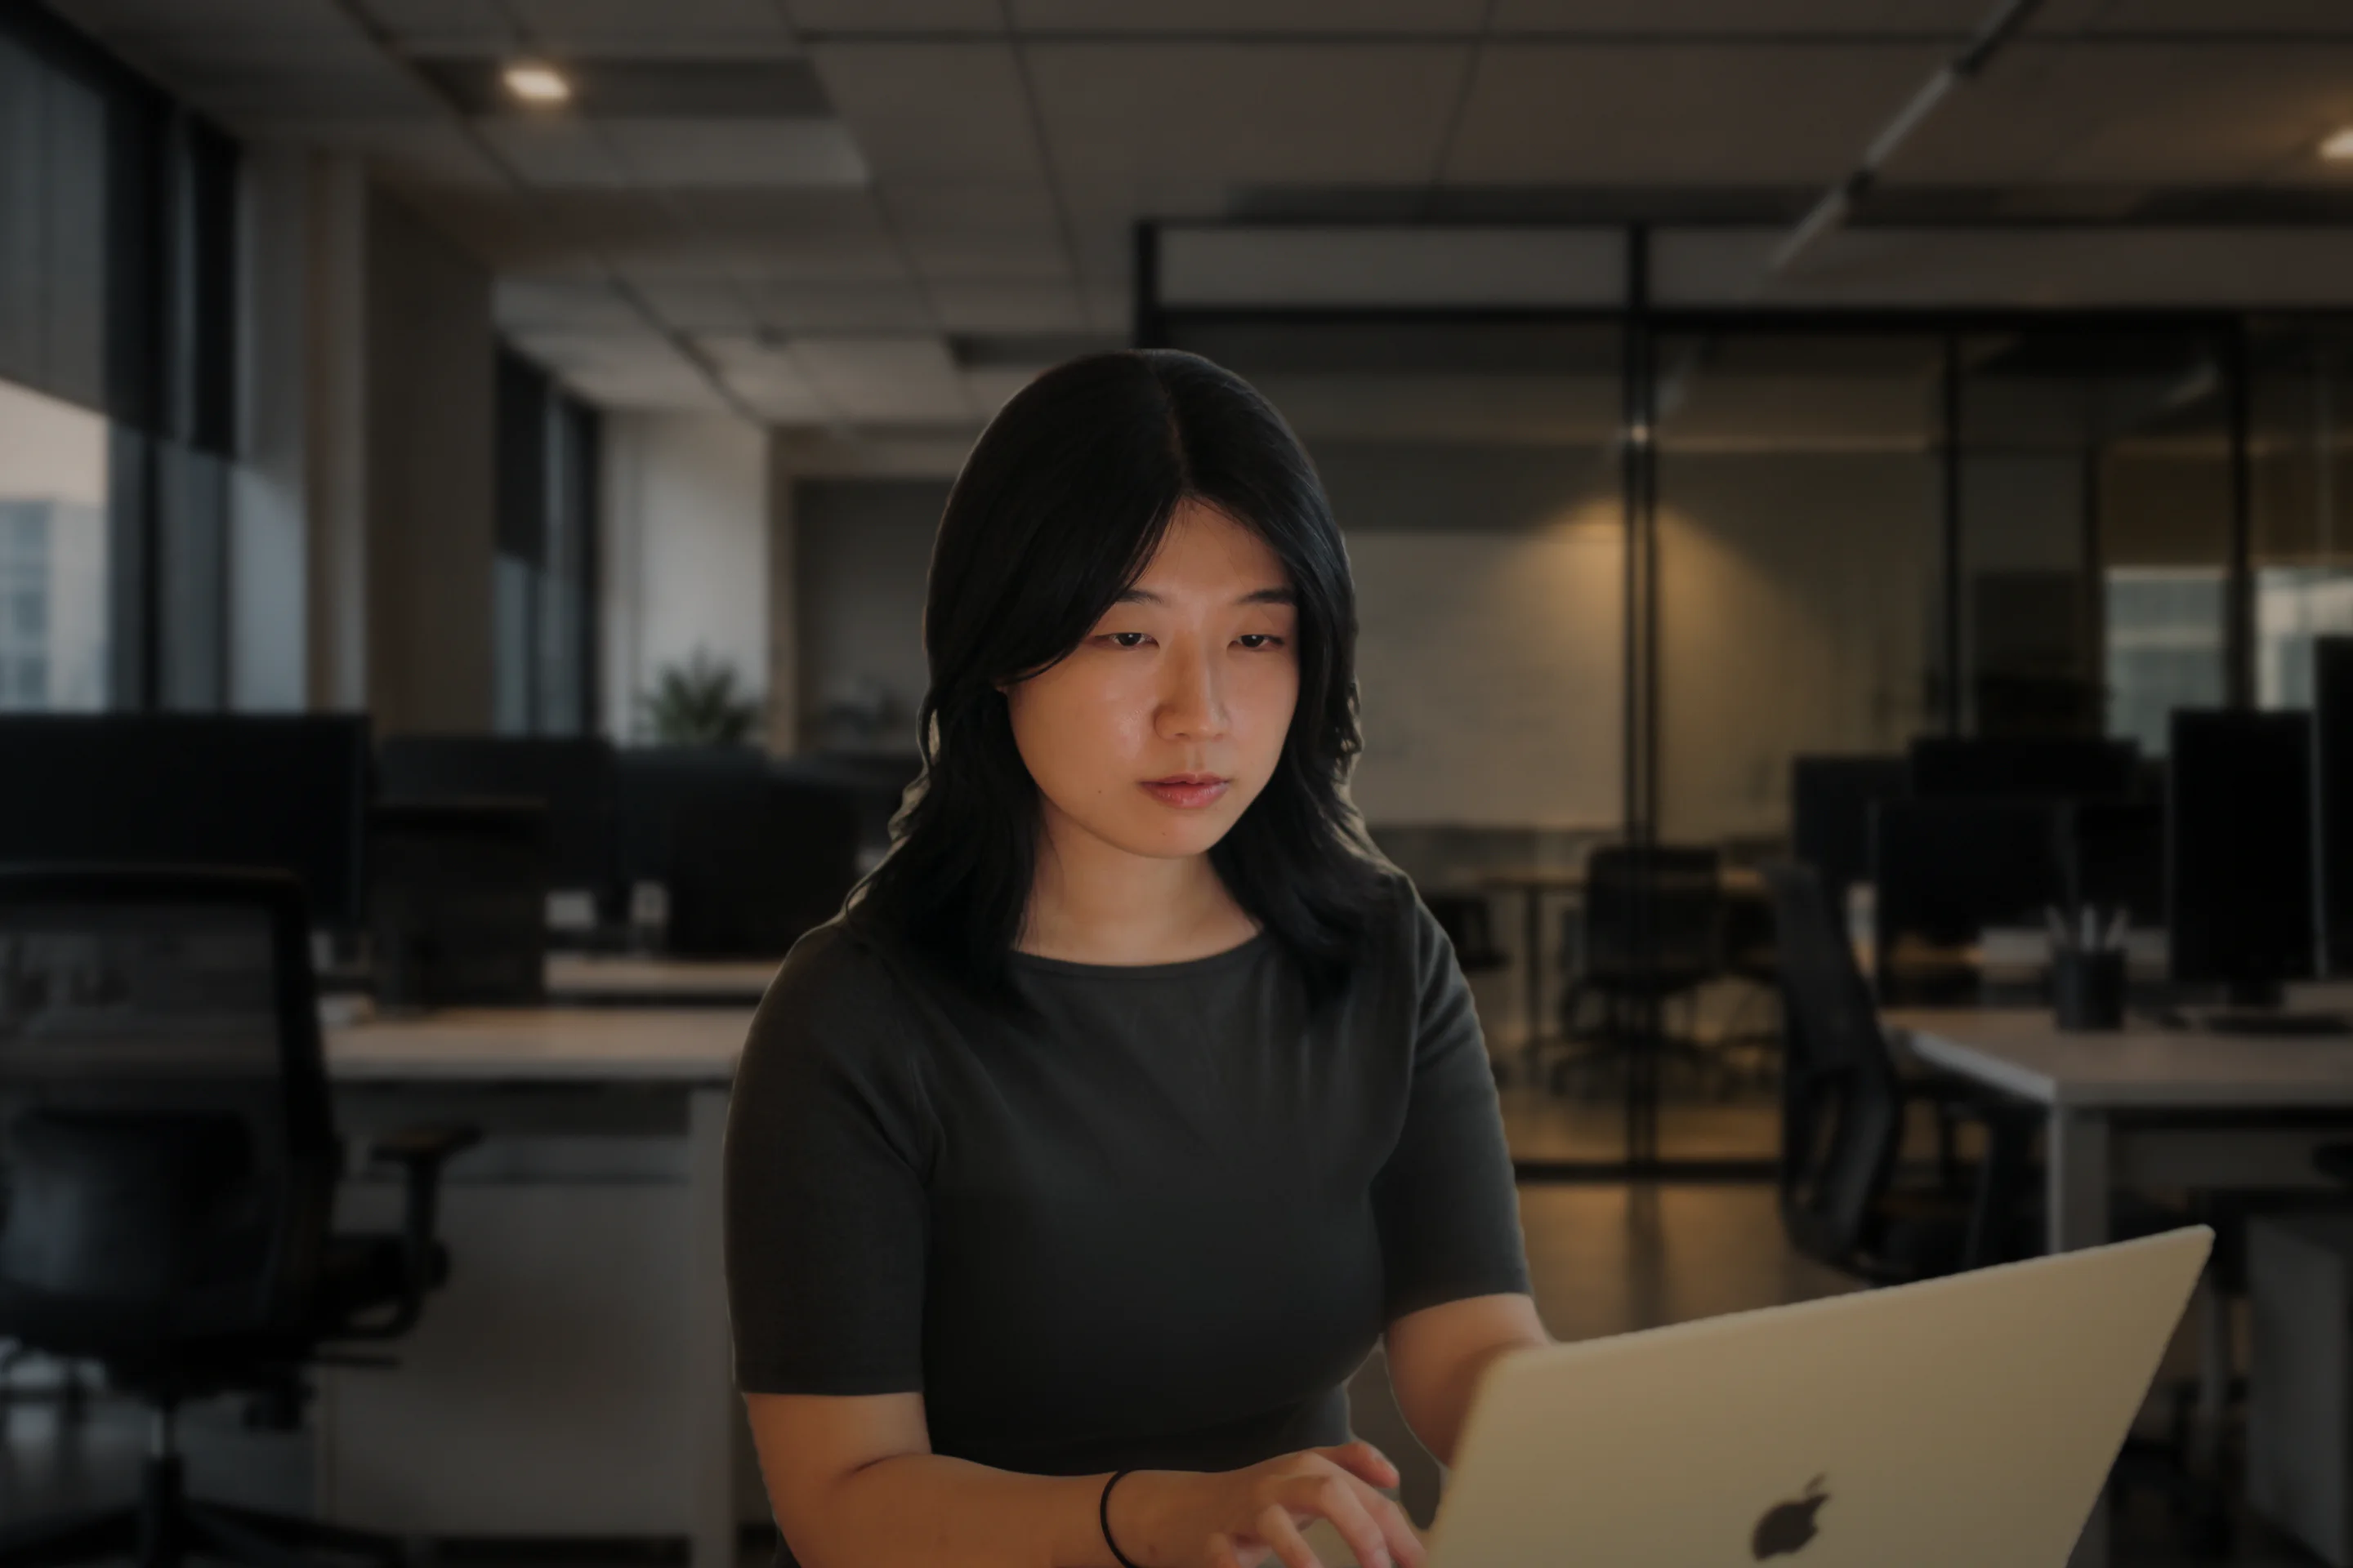
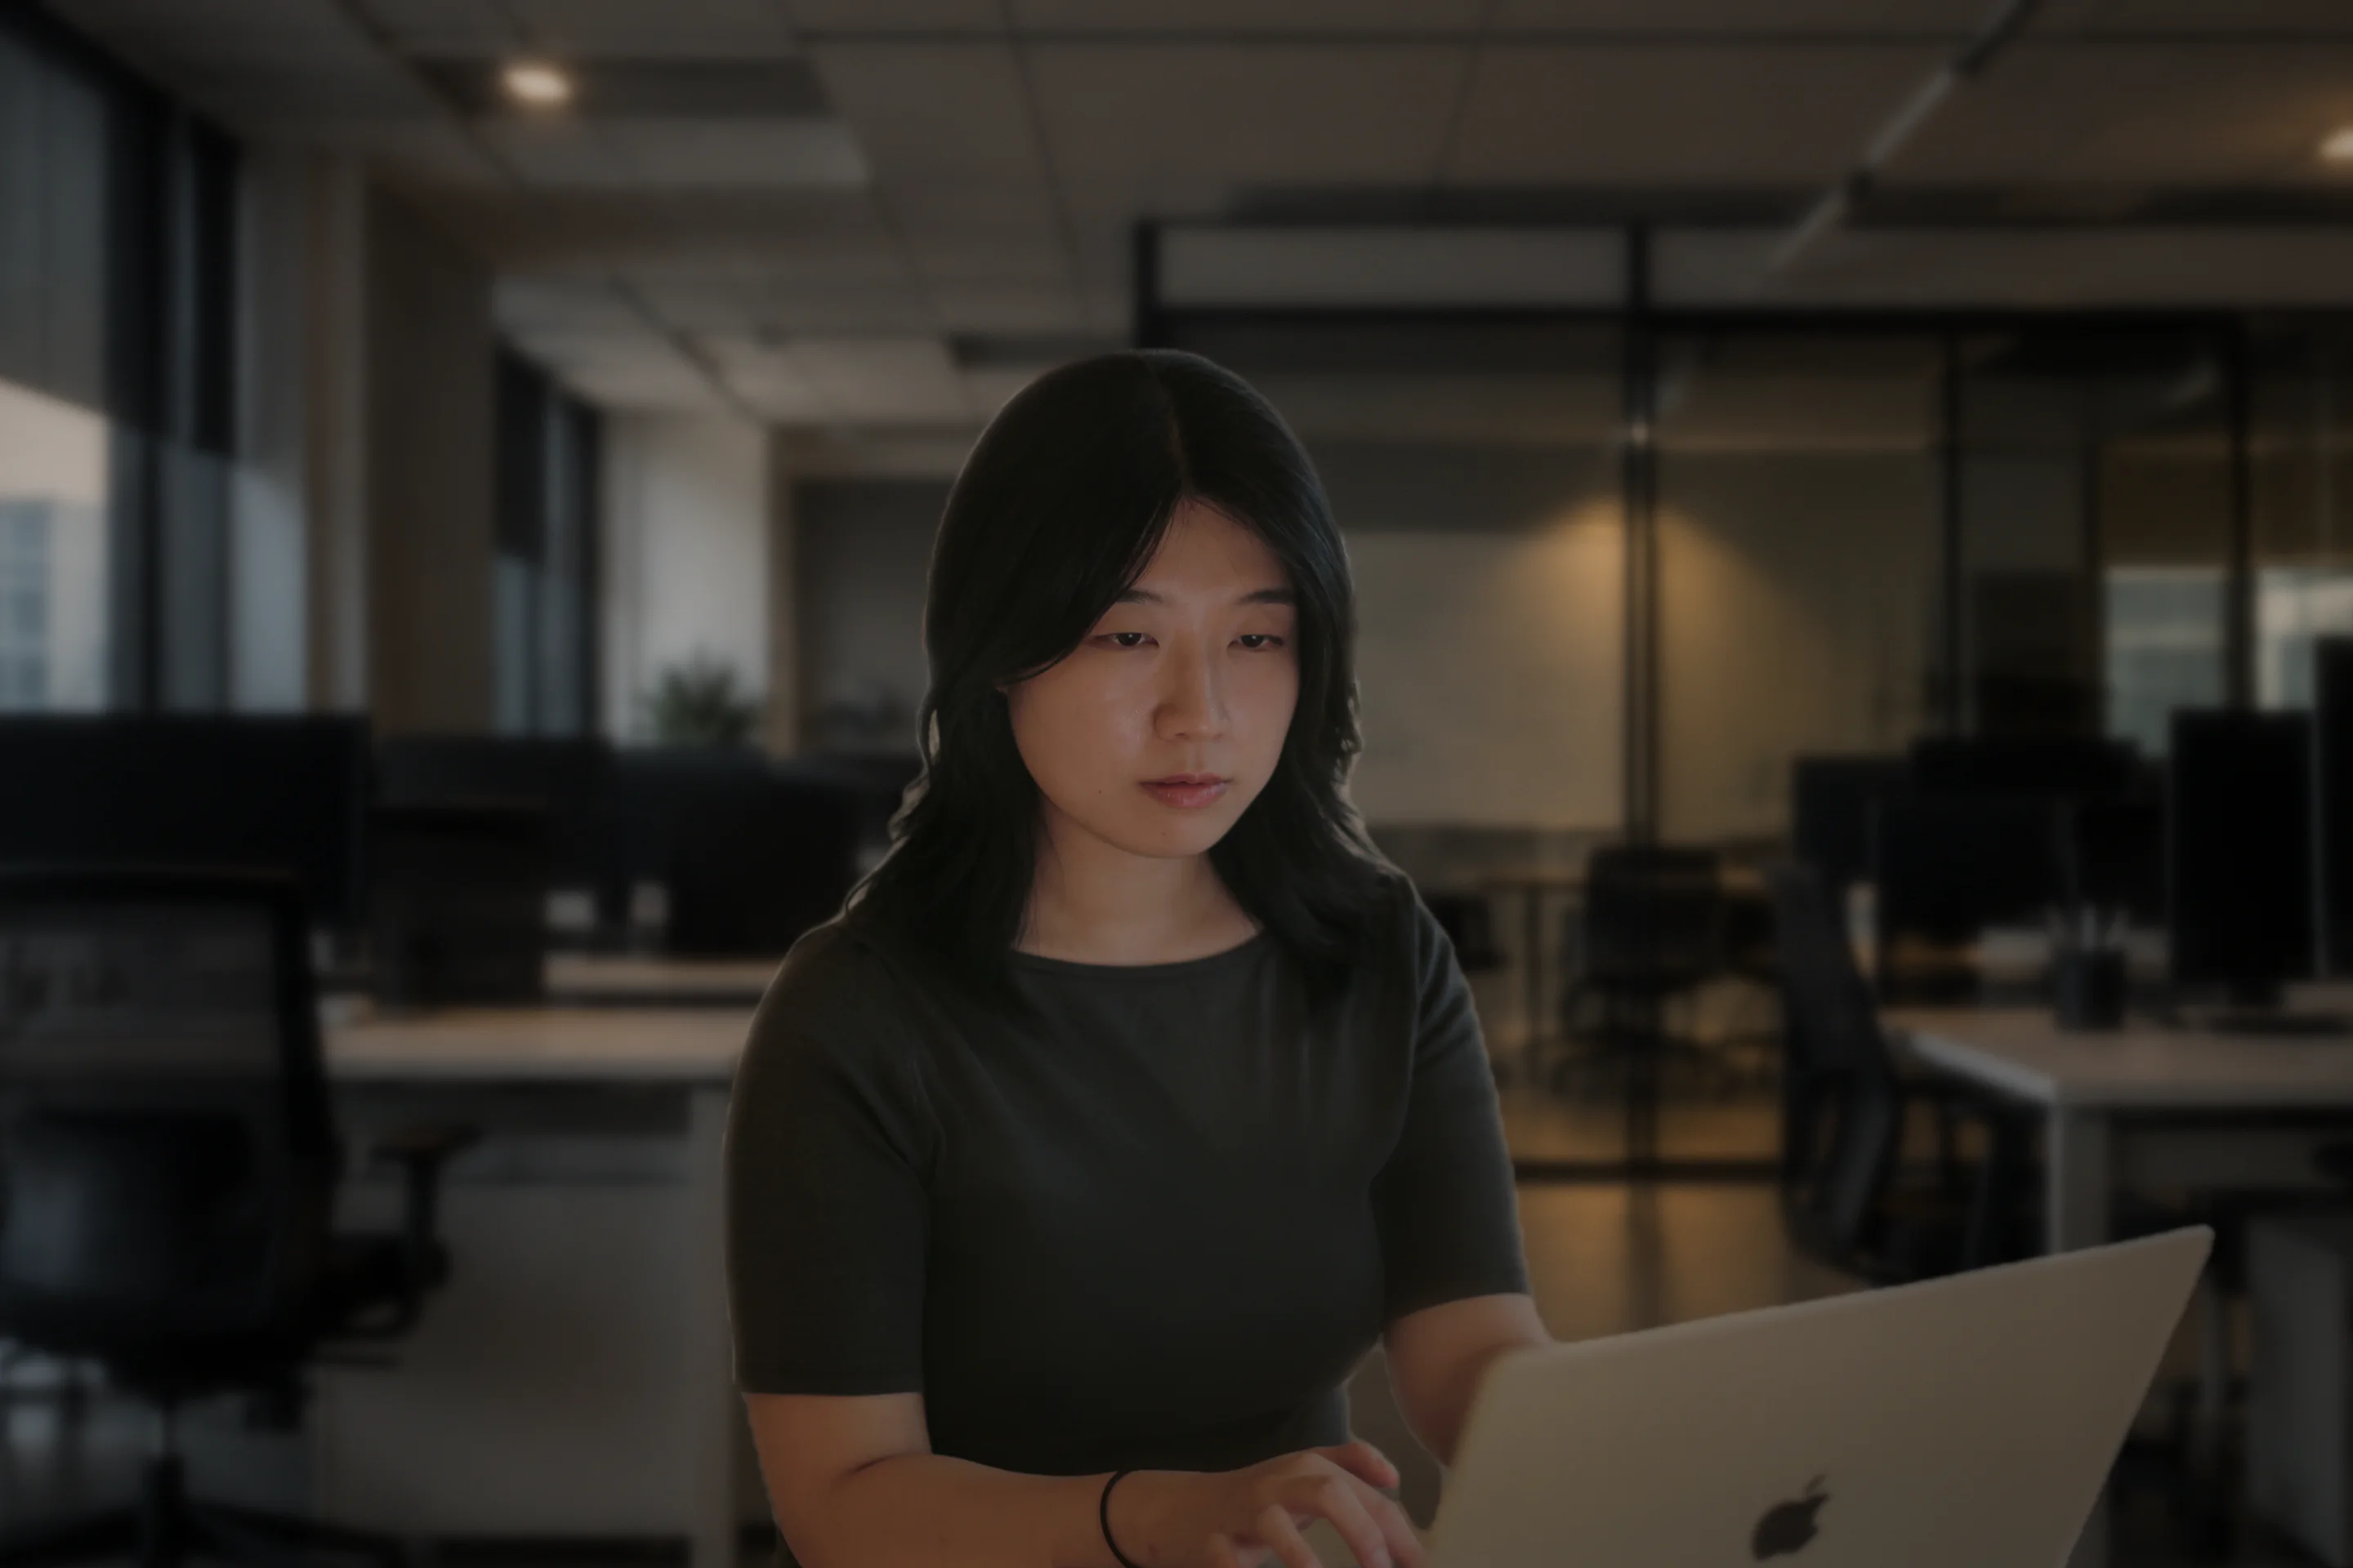
About: blend the last photo into the office light
Her tone, colour and light direction now follow the dim office (darker,
cooler, window light from the left, a little room colour over her, softer
edge and more background blur). The dark theme dims this photo less.

Changed region(s): [[0.4375, 0.7812, 0.9375, 1.0], [0.4375, 0.3125, 0.5625, 0.625]]

diff --git a/app/globals.css b/app/globals.css
@@ -9264,3 +9264,7 @@ html[data-about-entering] .home-stage :is(.intro-surface, [class*="home-world-"]
   .about-hero-actions a[data-primary] { background: #191c1f; color: #fff; }
   .about-hero-actions a[data-primary]:hover { background: #2b2f33; }
 }
+
+/* The contact photo (laptop.webp) is already a dim office scene, so the dark theme's
+   35% photo dim would bury her face; it gets a lighter 12%. */
+.about-panel.about-panel-contact::before { background: light-dark(transparent, rgb(0 0 0 / 0.12)); }
